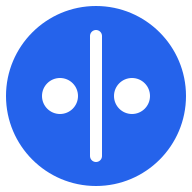
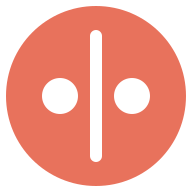
Update the assets to the new theme

diff --git a/public/index.html b/public/index.html
@@ -3,12 +3,16 @@
     <head>
         <meta charset="UTF-8" />
         <meta name="viewport" content="width=device-width, initial-scale=1.0" />
-        <meta name="theme-color" content="#2563eb" />
-        <title>Partage - Bill Splitting</title>
+        <meta name="theme-color" content="#E8725C" />
+        <title>Partage</title>
         <link rel="manifest" href="/manifest.webmanifest" />
         <link rel="icon" href="/favicon.svg" type="image/svg+xml" />
         <link rel="apple-touch-icon" href="/icon-192.png" />
-        <style>#app { height: 100%; }</style>
+        <style>
+            #app {
+                height: 100%;
+            }
+        </style>
     </head>
     <body>
         <div id="app"></div>
